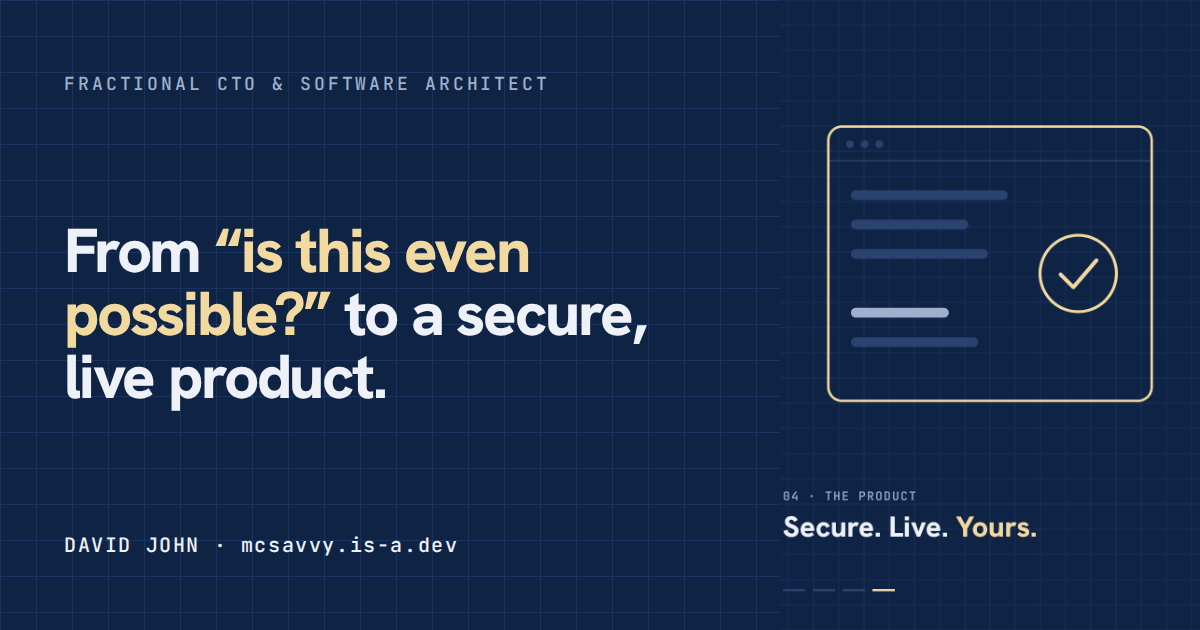
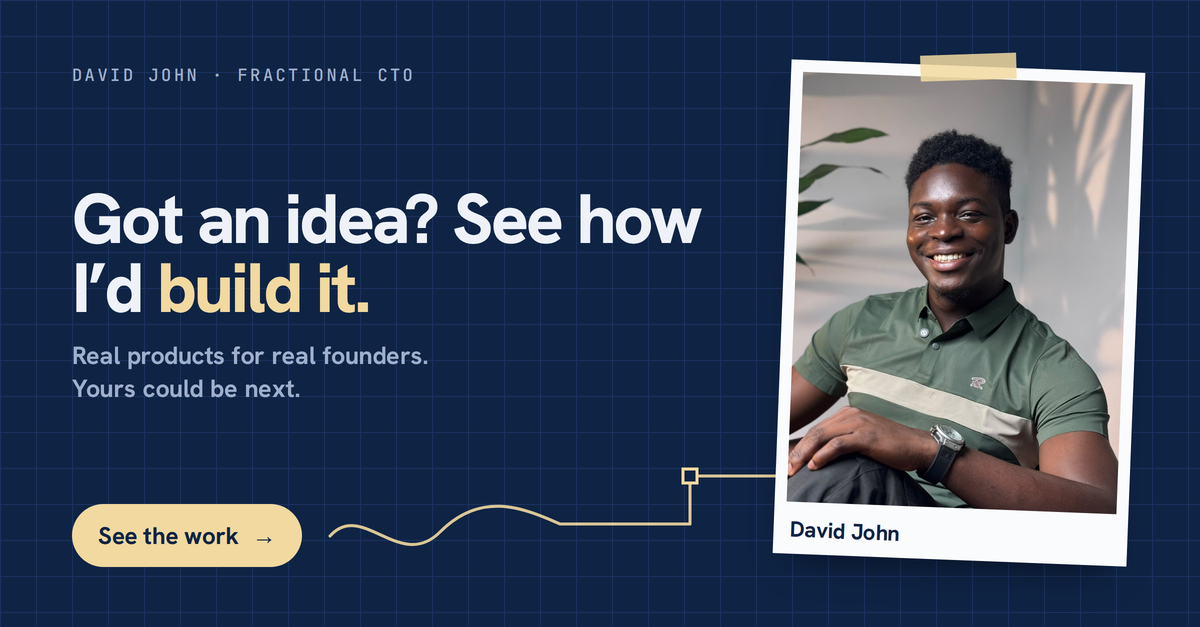
Update link preview

diff --git a/index.html b/index.html
@@ -16,10 +16,15 @@
       property="og:description"
       content="I help founders go from “is this even possible?” to a secure, live product."
     />
-    <meta property="og:url" content="https://mcsavvy.is-a.dev" />
-    <meta property="og:image" content="https://mcsavvy.is-a.dev/og.png" />
+    <meta property="og:url" content="https://davidjohn.futurdevs.com" />
+    <meta property="og:image" content="https://davidjohn.futurdevs.com/og.png" />
+    <meta property="og:image:width" content="1200" />
+    <meta property="og:image:height" content="627" />
+    <meta property="og:image:alt" content="David John, Fractional CTO. Got an idea? See how I'd build it." />
     <meta name="twitter:card" content="summary_large_image" />
     <meta name="twitter:site" content="@davemcsavvy" />
+    <meta name="twitter:image" content="https://davidjohn.futurdevs.com/og.png" />
+    <link rel="canonical" href="https://davidjohn.futurdevs.com/" />
     <link rel="icon" type="image/svg+xml" href="/favicon.svg" />
 
     <link rel="preconnect" href="https://fonts.googleapis.com" />
